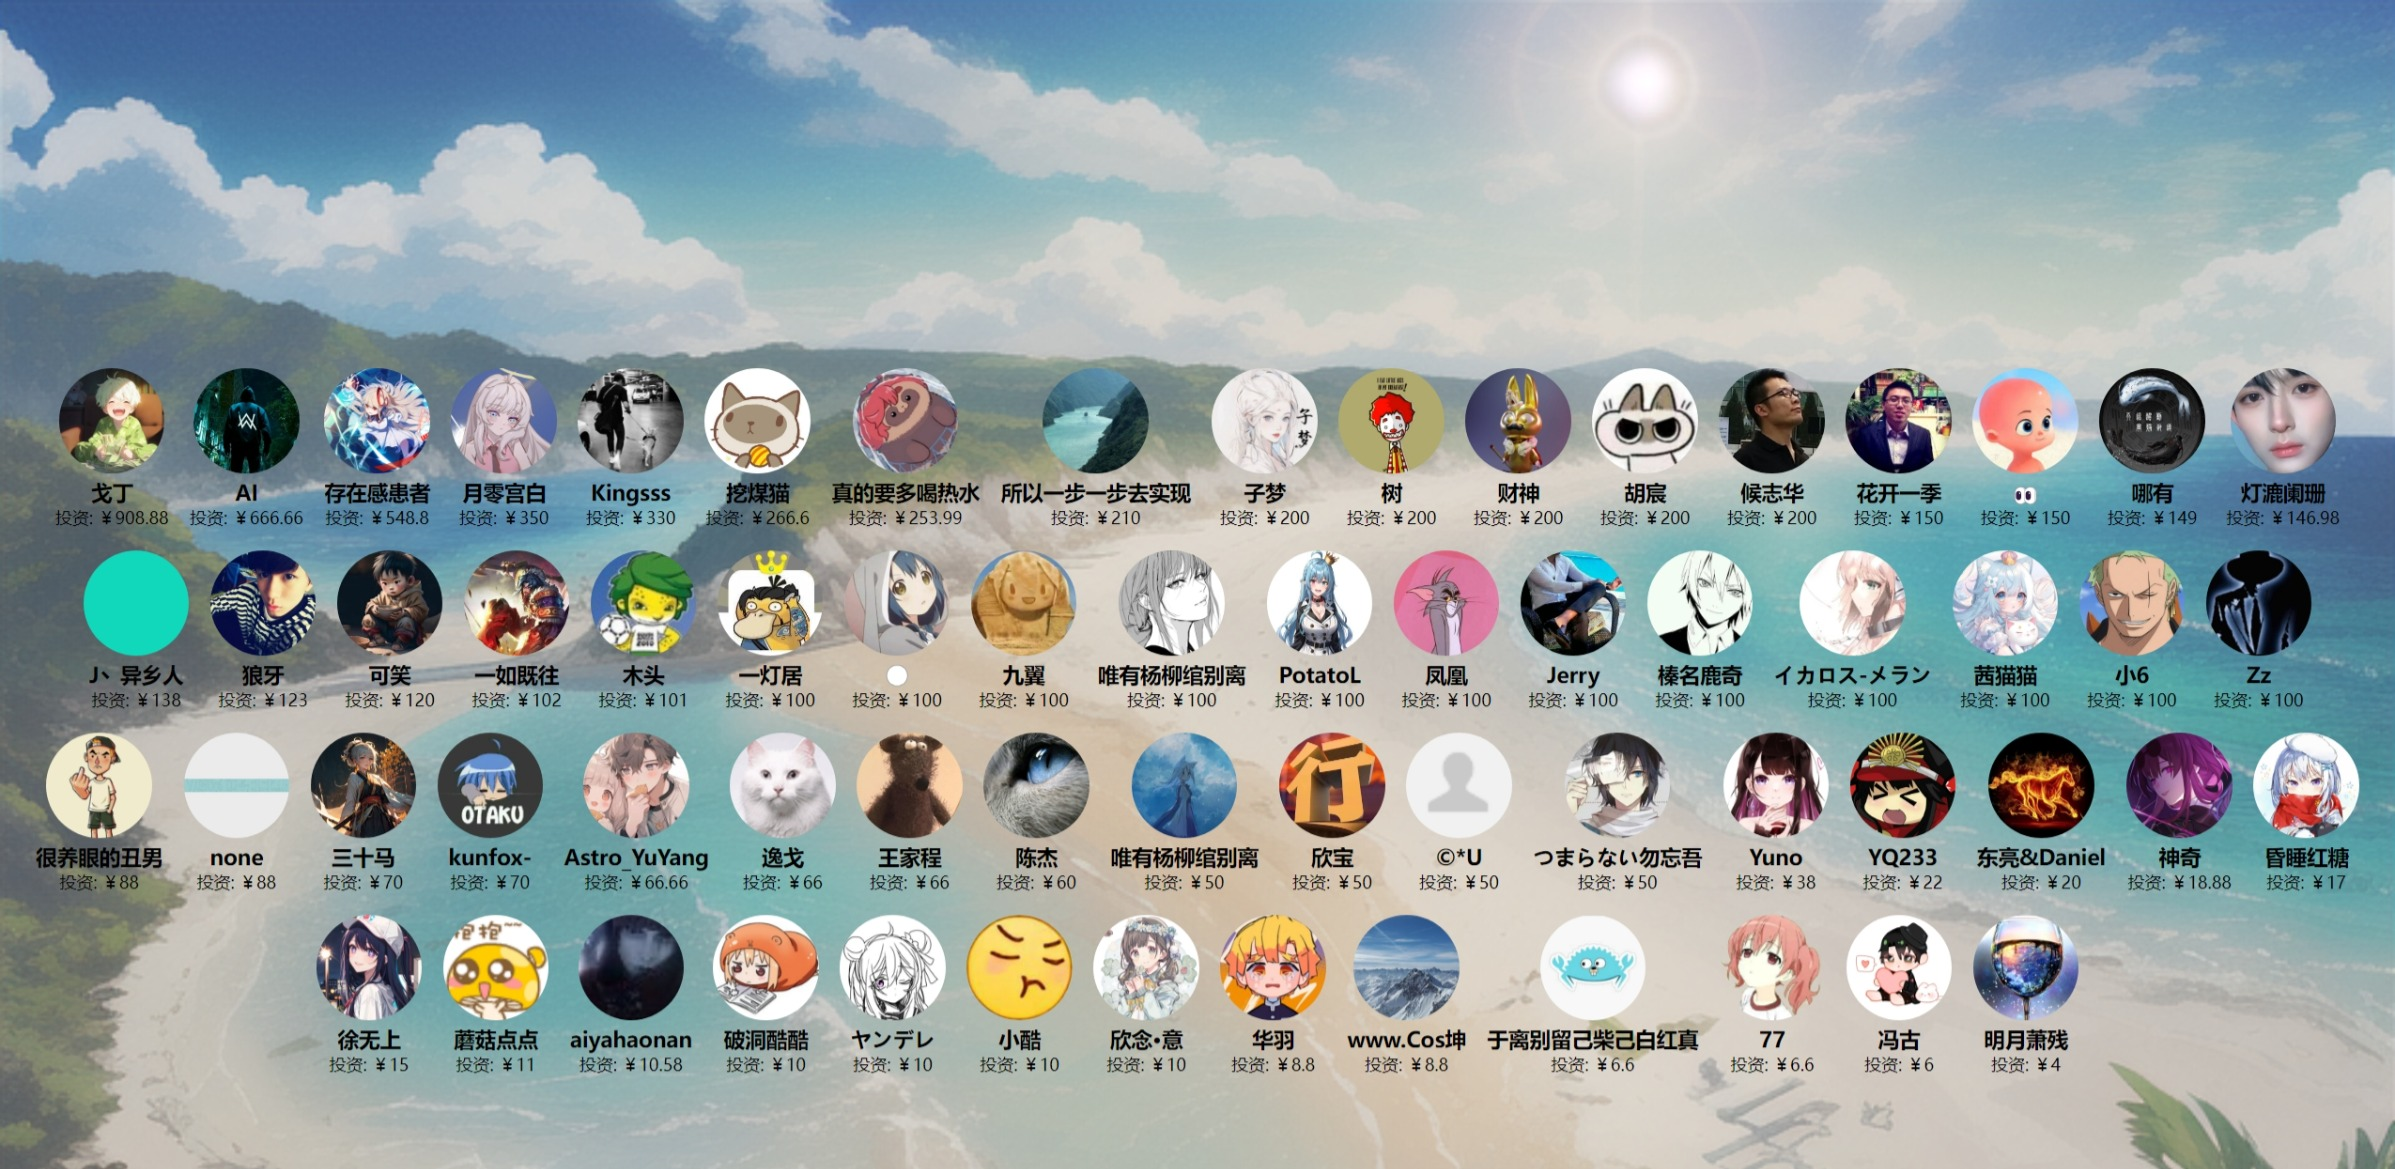
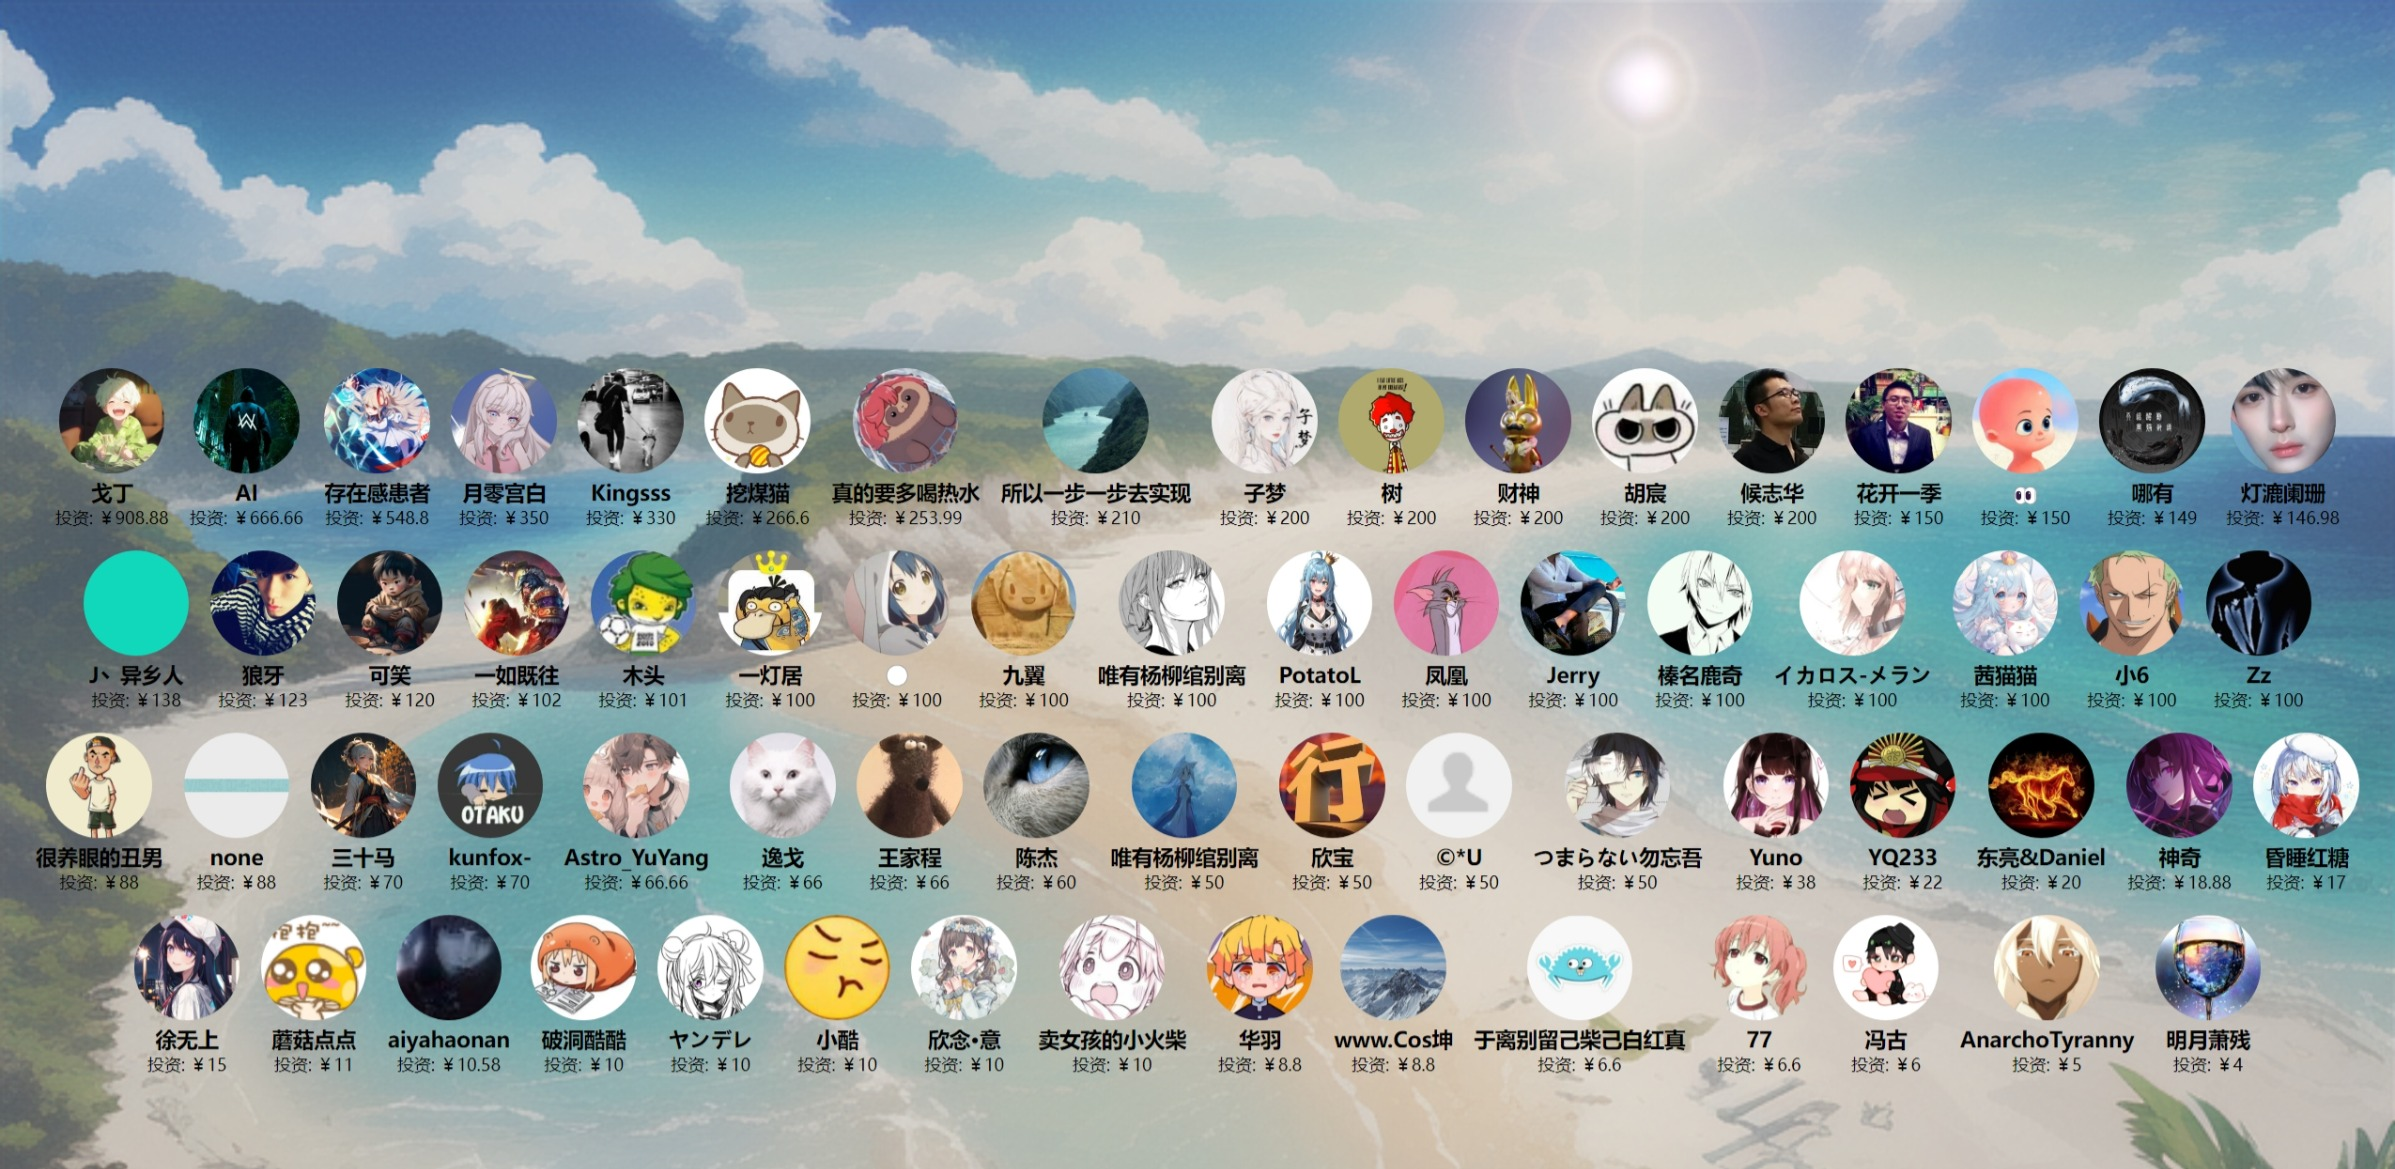
更新投资人

Changed region(s): [[0.0309, 0.7699, 0.9578, 0.9239]]

diff --git a/docs/投资人/index.html b/docs/投资人/index.html
@@ -342,6 +342,11 @@
             amount: "￥10"
         },
         {
+            name: "卖女孩的小火柴",
+            avatar: "https://images.cnblogs.com/cnblogs_com/ikaros-521/2328032/o_231212152557_QQ%E5%9B%BE%E7%89%8720231212232525.jpg",
+            amount: "￥10"
+        },
+        {
             name: "华羽",
             avatar: "https://images.cnblogs.com/cnblogs_com/ikaros-521/2328032/o_230722163359_QQ%E5%9B%BE%E7%89%8720230722234807.jpg",
             amount: "￥8.8"
@@ -365,6 +370,11 @@
             name: "冯古",
             avatar: "https://images.cnblogs.com/cnblogs_com/ikaros-521/2328032/o_230719074436_%E5%86%AF%E5%8F%A4.jpg",
             amount: "￥6"
+        },
+        {
+            name: "AnarchoTyranny",
+            avatar: "https://images.cnblogs.com/cnblogs_com/ikaros-521/2328032/o_231212152840_QQ%E5%9B%BE%E7%89%8720231212232830.jpg",
+            amount: "￥5"
         },
         {
             name: "明月萧残",
